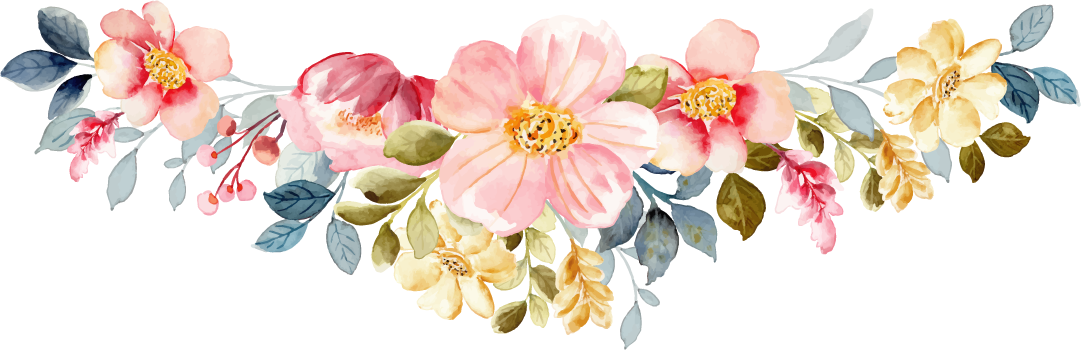
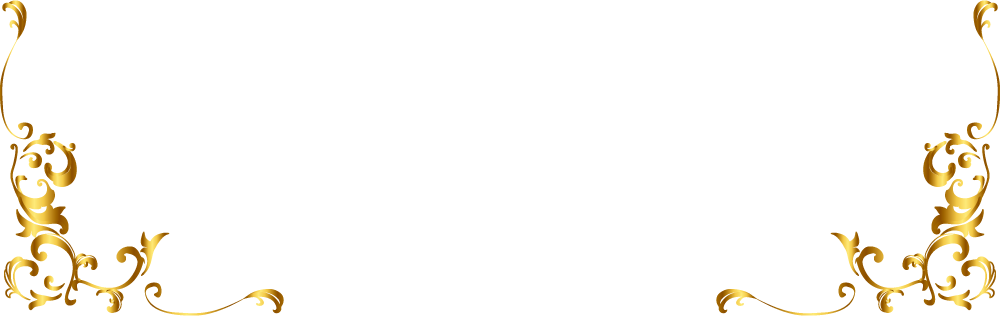
Add files via upload

diff --git a/invitacion/briana-xv/style.css b/invitacion/briana-xv/style.css
@@ -20,7 +20,7 @@
 body {
     font-family: var(--font-body);
     color: var(--color-text);
-    background-color: #d9fdff;
+    background-color: #ffffff;
     background-image: url('https://www.transparenttextures.com/patterns/cream-paper.png'); 
     line-height: 1.6;
     overflow-x: hidden;
@@ -30,7 +30,7 @@ body {
 .container {
     max-width: 800px;
     margin: 0 auto;
-    background-color: #f3ffff;
+    background-color: #fff;
     box-shadow: 0 0 20px rgba(0,0,0,0.05);
     overflow: hidden;
 }
@@ -201,22 +201,30 @@ header .sub-title {
 
 /* --- SECCIONES --- */
 section {
-    padding: 60px 20px;
+    padding: 20px 20px;
     position: relative;
 }
 
 .flower-divider-up {
     width: 100%;
     display: block;
-    margin: -180px auto 0;
+    margin: -60px auto 0;
     opacity: 0.8;
 }
 
 .flower-divider-down {
     width: 100%;
     display: block;
-    margin: 0px auto -60px;
+    margin: -220px auto -20px;
     opacity: 0.8;
+}
+
+.bella-bestia-divider {
+    width: 20%;
+    display: block;
+    opacity: 1;
+    position: absolute;
+    bottom: -25px;
 }
 
 .quote-section { padding: 40px 20px; font-style: italic; font-size: 1.1rem; font-family: var(--font-serif);}

diff --git a/invitacion/briana-xv/index.html b/invitacion/briana-xv/index.html
@@ -65,8 +65,8 @@
                 <img src="https://placehold.co/600x1000/75101a/white?text=04" class="gallery-img">
                 <img src="https://placehold.co/600x1000/75101a/white?text=26" class="gallery-img">
             </div>
-
             <h3 class="date-highlight">Viernes 10 Abril 2026</h3>
+            <p class="sub-title">Convocatorio Real</p>
             
             <div class="countdown-container" id="countdown">
                 <div class="time-box">
@@ -208,6 +208,7 @@
         
         <button type="button" class="btn" style="width: 100%;" onclick="enviarWhatsApp()">Enviar Confirmación</button>
     </form>
+     <img src="images/bellaybestia.png" alt="Adorno" class="bella-bestia-divider">
 </section>
 
         <footer class="text-center">
